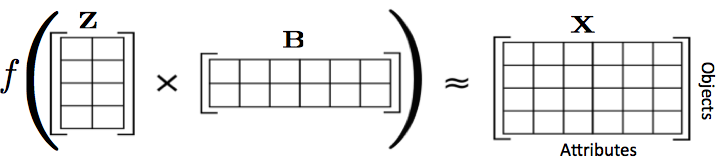
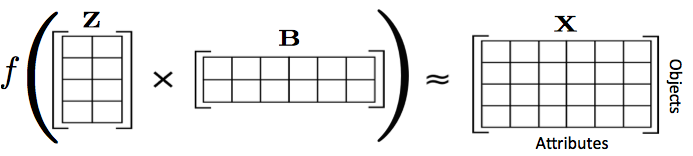
adding figure

diff --git a/README.md b/README.md
@@ -15,11 +15,17 @@ GLFM Description
 
 GLFM is a general Bayesian nonparametric latent feature model suitable for heterogeneous datasets, where the attributes describing each object can be either discrete, continuous or mixed variables. The GLFM assumes that an observation matrix can be explained by a low-rank matrix factorization, such that:
 
+<p align="center">
+  <img src="https://github.com/ivaleraM/GLFM/blob/master/figures/matrix_factorization.png" width="350"/>
+</p>
+![alt text](https://github.com/ivaleraM/GLFM/blob/master/figures/matrix_factorization.png)
+
+where f
 
 
 The builds on the Indian Buffet Process (Griffiths and Ghahramani, 2011), to account for an infinite number of (binary) latent variables. 
 
-![alt text](https://github.com/ivaleraM/GLFM/blob/master/figures/matrix_factorization.png)
+
 
 ------------
 GLFM Toolbox
